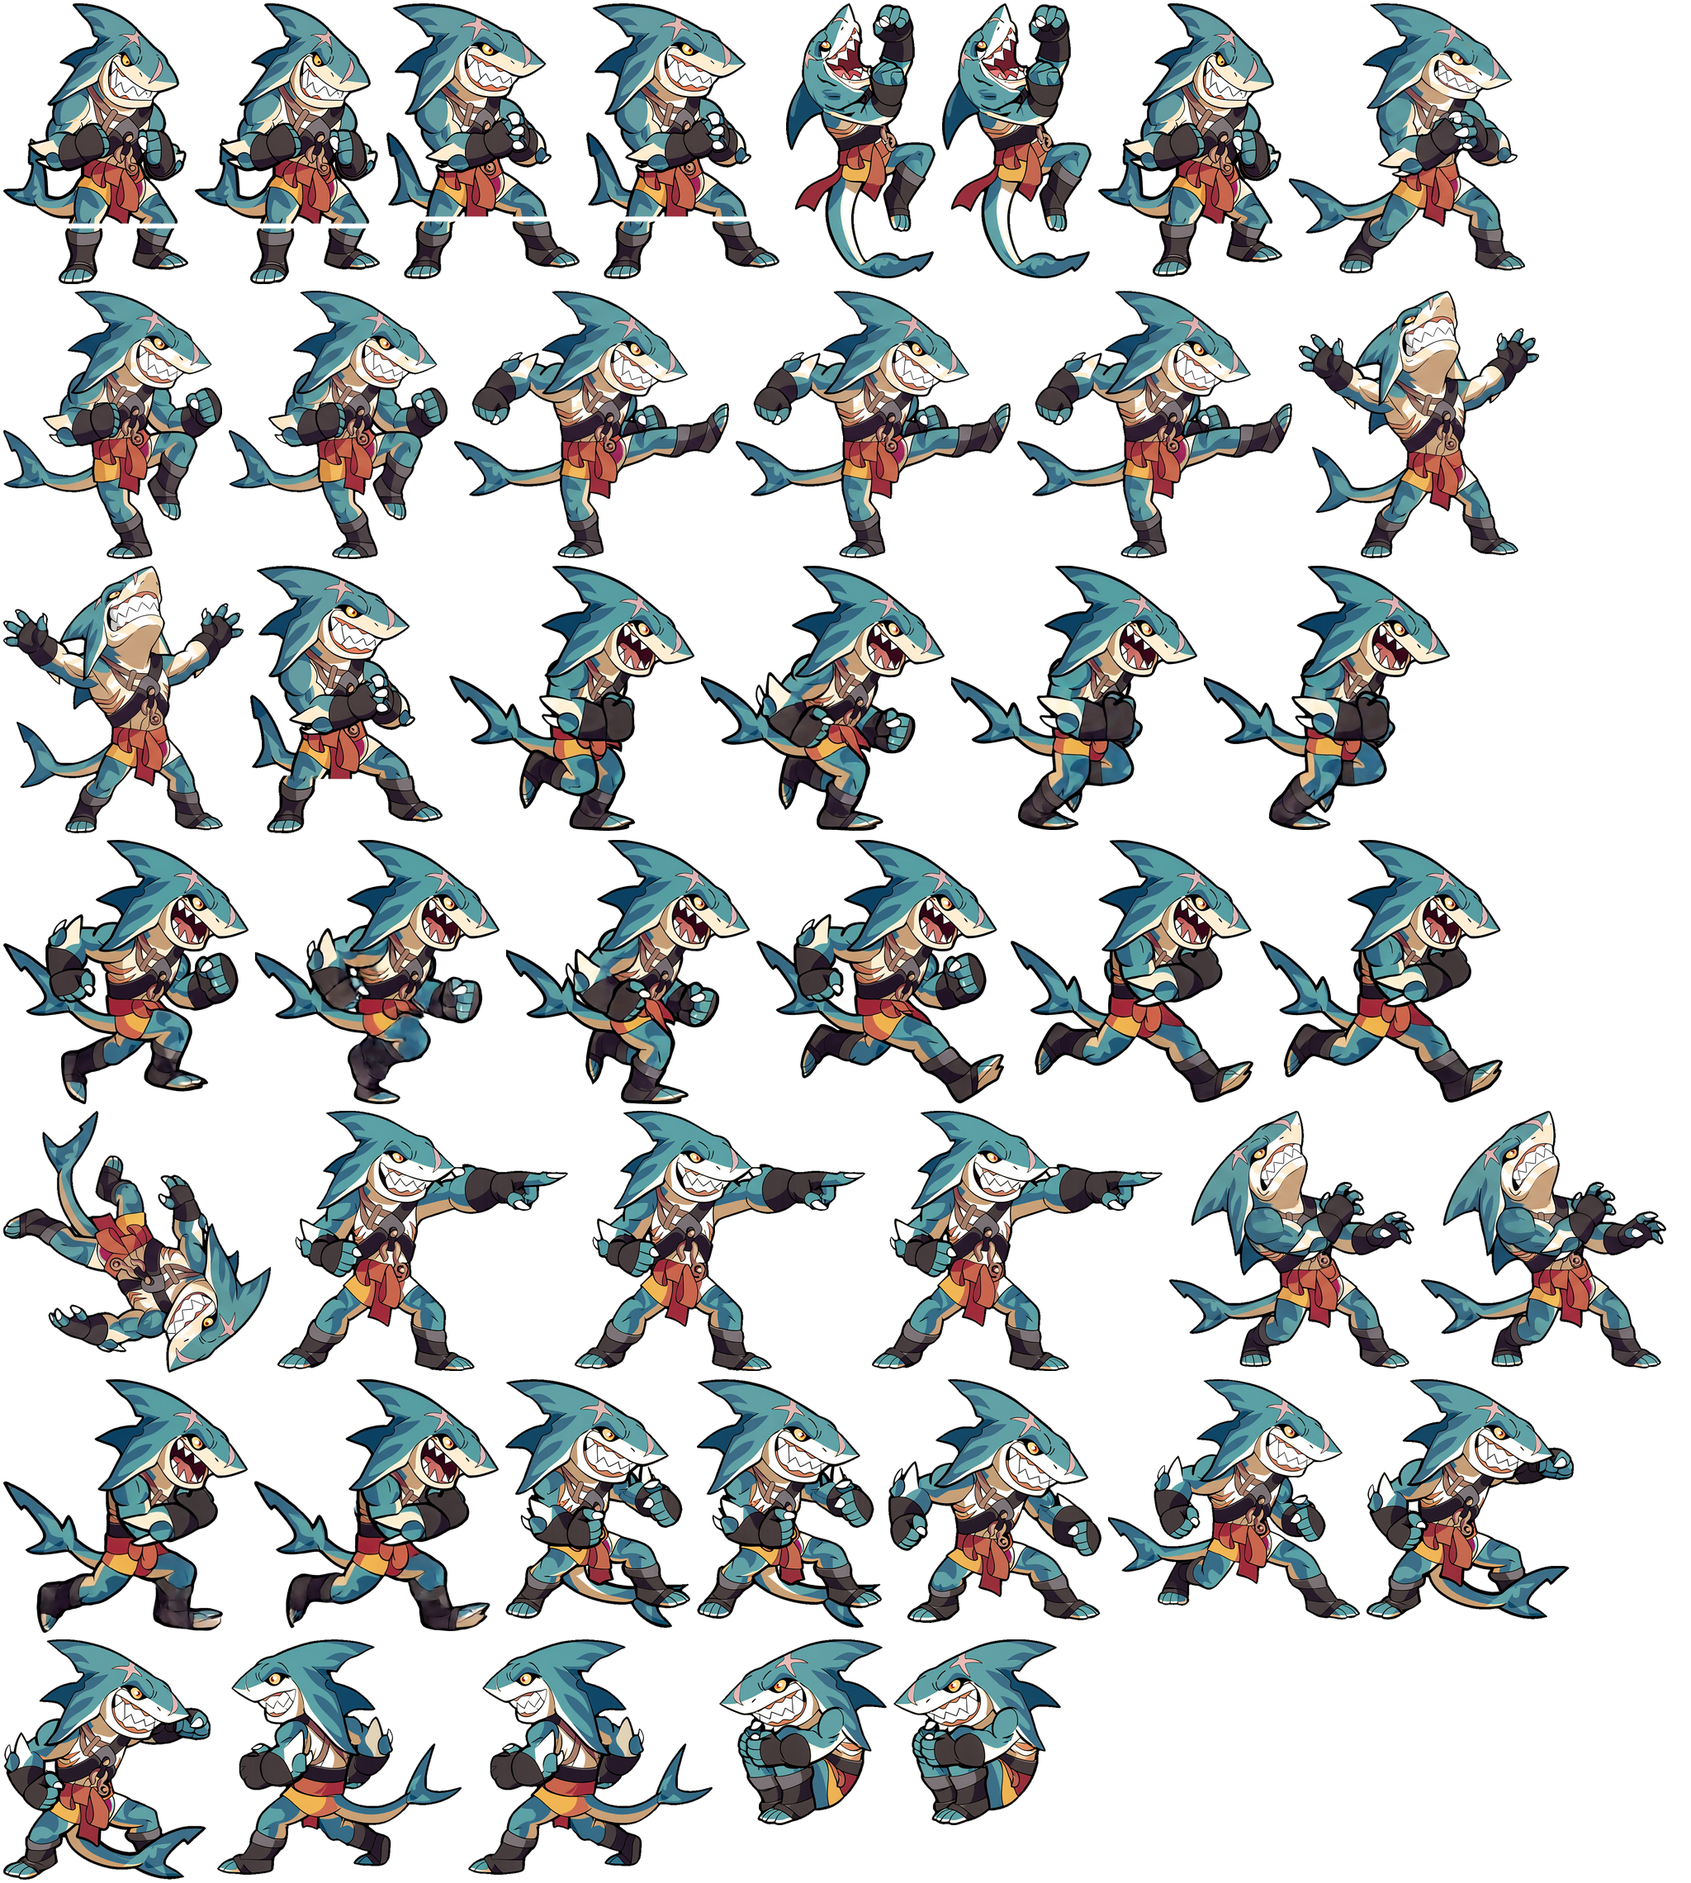
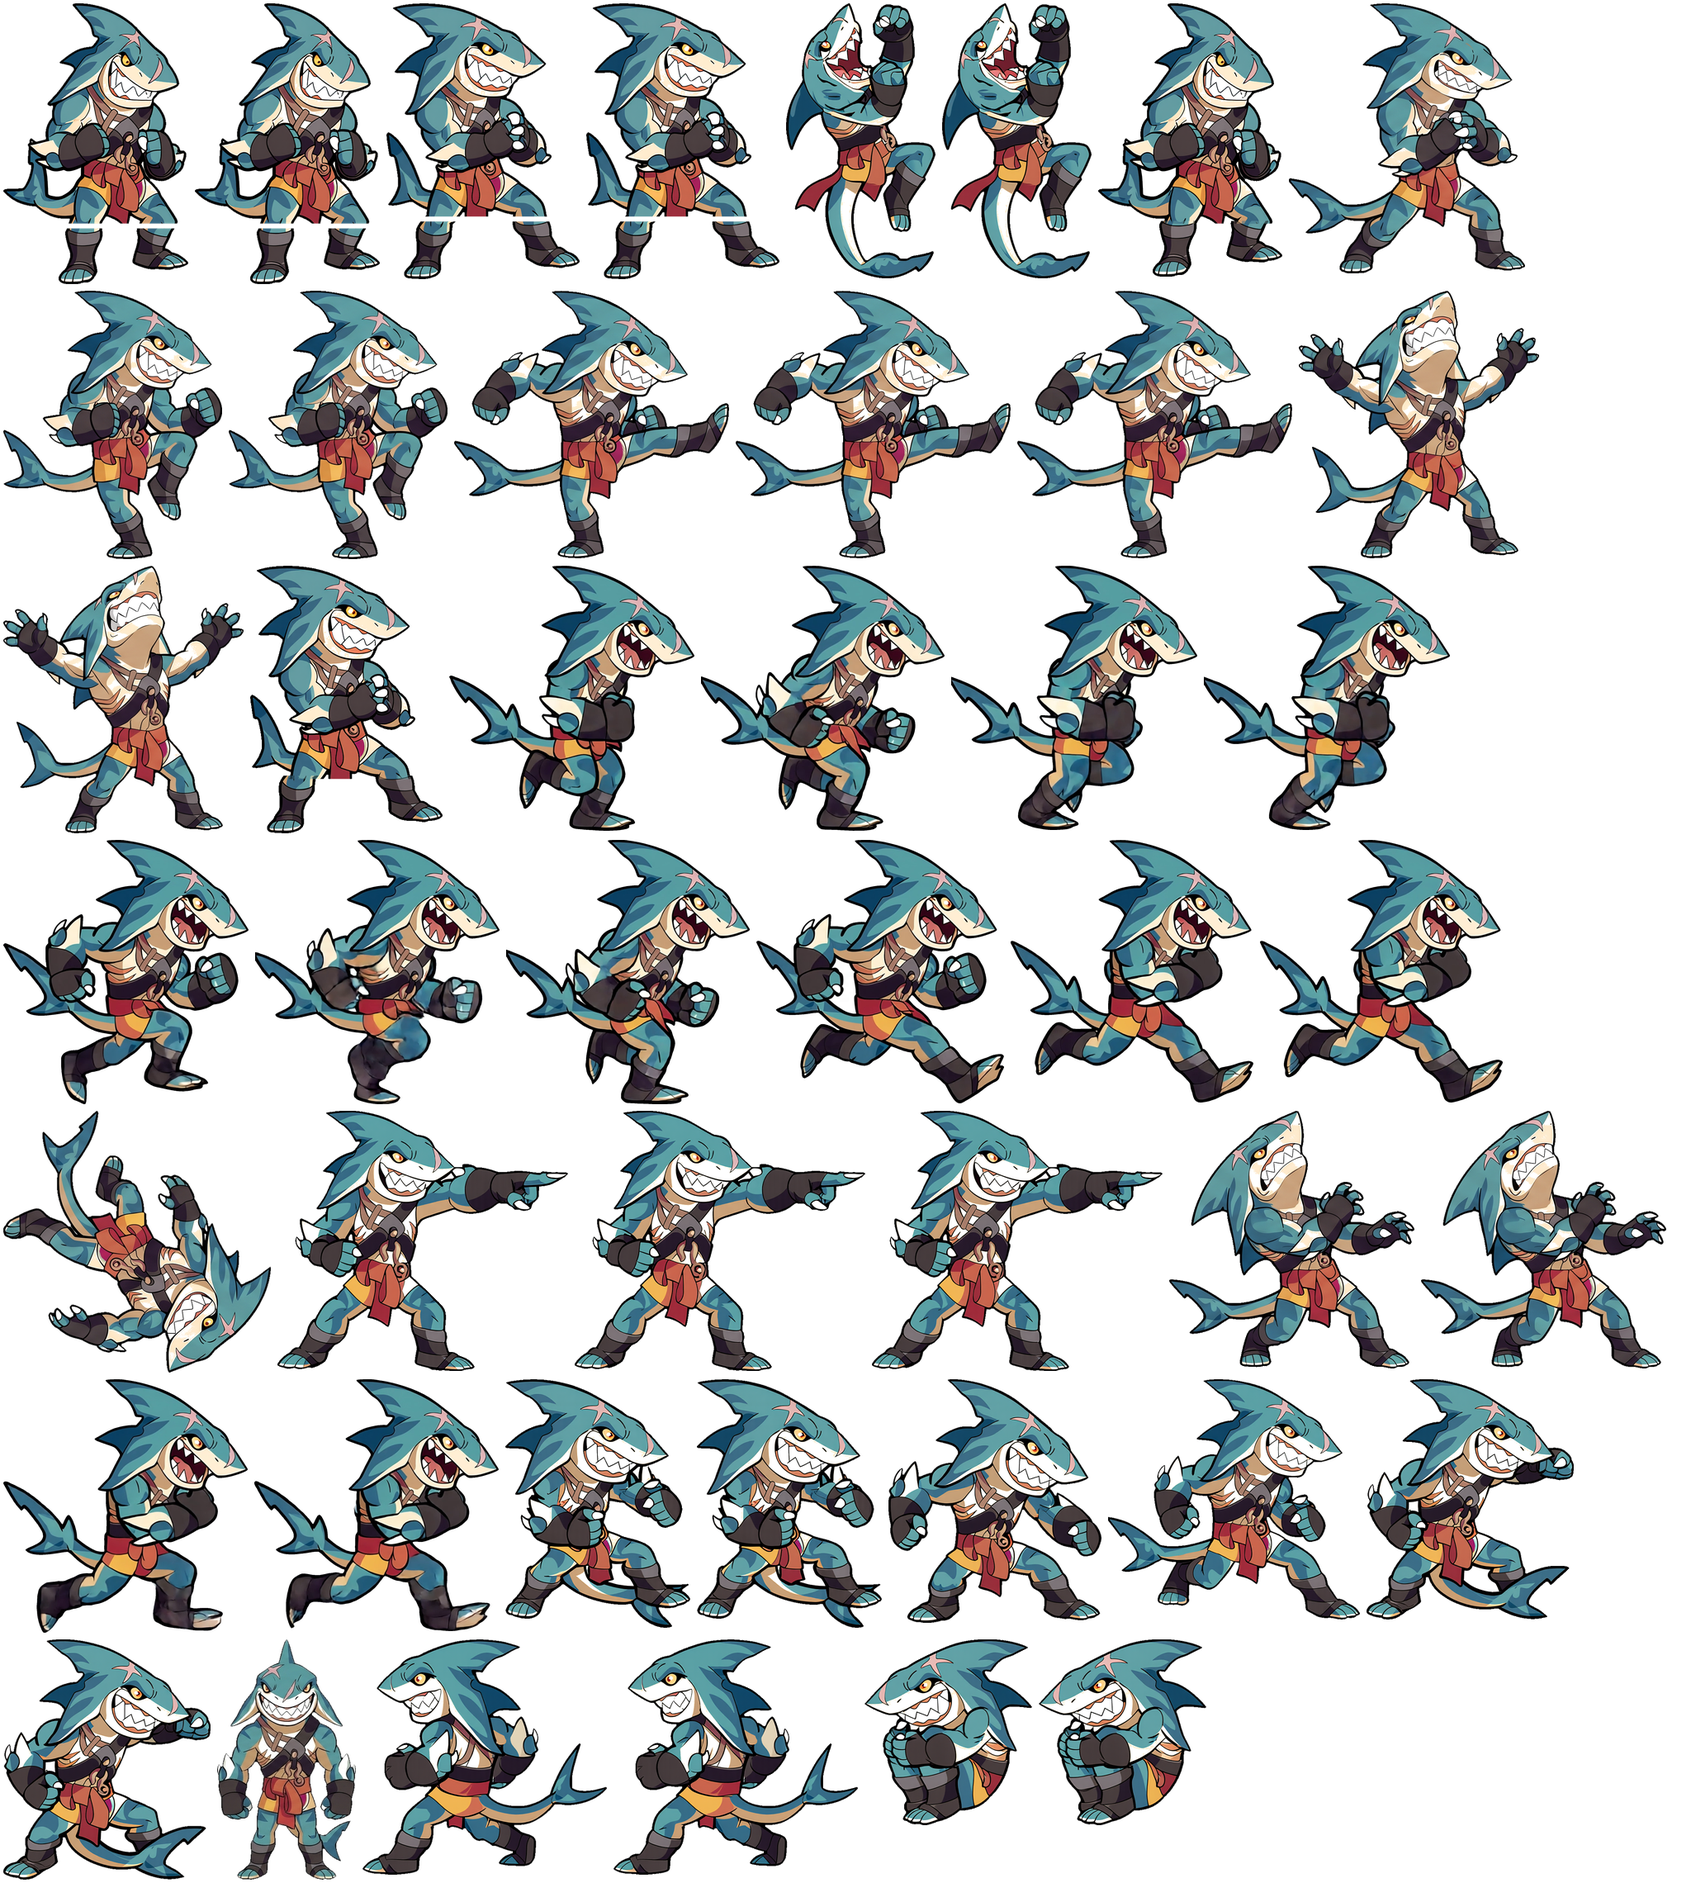
Texturas de verdad para especial, super, estallido y KO — y Mako también gira
**El pedido: "muy buenos, texturas y detalles."** Los cuatro golpes fuertes
—especial, super, el estallido de un poder, el KO— ahora llevan una capa extra
generada con Nano Banana Pro: una hoja de seis efectos (impacto, orbe, tajo,
onda, humo, esquirlas) con la línea gruesa y el recorte plano de comic que
usa el resto del juego, no genérica.

Se integra sin tocar el sistema de partículas que ya existía a propósito: el
cuerpo a cuerpo sigue en geometría pura —seis peleadores dando golpes varias
veces por segundo no pueden pagar decodificar un PNG cada vez— y las texturas
van sólo en los momentos que ya de por sí frenan el tiempo, unos pocos por
minuto. `scripts/separar-vfx.py` parte cada textura en las mismas dos capas
que ya dibuja `fx.ts` —glow blanco con alfa, tintable del color del bando; ink
negro, el contorno, sin tocar— así que un poder de cualquiera de los dos
bandos usa la misma textura y sale del color que le toca.

`src/render/vfxSprites.ts` es el pool: diez ranuras fijas de sprites, sin una
sola asignación por cuadro, mismo criterio que el resto del render. Si una
textura no llegó a cargar —red lenta, lo que sea— el golpe se sigue viendo
con la geometría de siempre; la textura es un agregado, nunca una dependencia.

**Mako.** Su pose de pie es una guardia de tres cuartos y no de frente, así
que necesitaba el mismo tratamiento que Kor y Ragnir: turnaround generado,
cuadro del medio recortado y escalado a la unidad de rig de su hoja, metido
[…]

Changed region(s): [[0.125, 0.8719, 0.7188, 1.0]]

diff --git a/src/render/game.ts b/src/render/game.ts
@@ -52,6 +52,8 @@ import {
 import { createBackdrop } from './backdrop';
 import { createStage, loadFlames, loadPlatforms, loadStage, stageNames, stageTint } from './stage';
 import type { StagePlatforms } from './stage';
+import { loadVfxTexturas } from './loadVfx';
+import { createVfxSprites } from './vfxSprites';
 
 /**
  * La capa que dibuja. Lee el estado de la simulación y lo pinta; no decide nada.
@@ -465,6 +467,7 @@ export async function startGame(
     hojas: sinColgarse(Promise.all(armatures.map((name) => loadSheets(name))), 'las hojas de sprites'),
     fuegos: sinColgarse(
       Promise.all([loadFlames('verde'), loadFlames('rojo')]), 'las hogueras'),
+    vfx: sinColgarse(loadVfxTexturas(), 'las texturas de efectos'),
   };
 
   // Las hogueras entran cuando llegan y nadie las espera: hasta entonces el
@@ -691,6 +694,19 @@ export async function startGame(
   const poderInk = new Graphics();
   world.addChild(poderInk);
 
+  /**
+   * Las ráfagas con textura: especial, super, estallido, KO. Van en su propia
+   * pareja de capas, glow con Bloom e ink sin filtro, igual que todo lo
+   * demás — la textura no cambia esa regla, sólo lo que hay adentro del
+   * contorno.
+   */
+  const vfxGlowLayer = new Container();
+  glowLayer.addChild(vfxGlowLayer);
+  const vfxInkLayer = new Container();
+  world.addChild(vfxInkLayer);
+  const vfxTexturas = await pedidos.vfx ?? {};
+  const vfxSprites = createVfxSprites(vfxGlowLayer, vfxInkLayer, vfxTexturas);
+
   const shockwave = new ShockwaveFilter({
     amplitude: 22,
     wavelength: 140,
@@ -788,6 +804,7 @@ export async function startGame(
     // hitstop, porque congelar los efectos delataría la pausa.
     emitTrails(match, fx);
     updateFx(fx, dtPelea);
+    vfxSprites.update(dtPelea);
 
     // Antes de dibujar: si la simulación cambió de personaje algún slot, hay
     // que enganchar el cuerpo nuevo. Se hace acá y no adentro de `drainEvents`
@@ -930,10 +947,12 @@ export async function startGame(
         orb(fx, x + hacia * 0.3, y, 0.62, 0.3, teamColor);
         slash(fx, x + hacia * 0.35, y, hacia > 0 ? 0 : Math.PI, 1.25, 0.24, teamColor);
         burst(fx, x, y, 8, 6.5, 0.1, 0.42, teamColor);
+        vfxSprites.burst('tajo', x + hacia * 0.35, y, 1.1, 0.3, teamColor, hacia > 0 ? 0 : Math.PI);
       } else {
         orb(fx, x, y, 0.95, 0.34, teamColor);
         beams(fx, x, y, 6, 2.1, 0.28, teamColor);
         shards(fx, x, y, 6, 5.5, teamColor);
+        vfxSprites.burst('orbe', x, y, 1.1, 0.34, teamColor);
       }
       return;
     }
@@ -948,6 +967,9 @@ export async function startGame(
     wave(fx, x, y - FIGHTER_HALF_HEIGHT, magnitude * 1.6, 0.55, GOLD);
     shards(fx, x, y, 12, 9, GOLD);
     burst(fx, x, y, 12, 11, 0.16, 0.7, GOLD);
+    vfxSprites.burst('impacto', x, y, 2.2, 0.5, GOLD);
+    vfxSprites.burst('onda', x, y - FIGHTER_HALF_HEIGHT, 2.6, 0.55, GOLD);
+    vfxSprites.burst('esquirlas', x, y, 1.8, 0.4, GOLD);
     hitstop = Math.max(hitstop, HITSTOP_SUPER);
     camera.cine = CINE_TIEMPO;
     camera.cineX = x;
@@ -1026,6 +1048,8 @@ export async function startGame(
           orb(target, x, y, 1.1, 0.34, teamColor);
           shards(target, x, y, 10, 8, teamColor);
           burst(target, x, y, 12, 9, 0.16, 0.8, teamColor);
+          vfxSprites.burst('impacto', x, y, 2, 0.45, teamColor);
+          vfxSprites.burst('esquirlas', x, y, 1.6, 0.4, teamColor);
           stop = Math.max(stop, HITSTOP_KO);
           camera.zoom = 1;
           break;
@@ -1040,6 +1064,10 @@ export async function startGame(
           beams(target, x, y, 8, 1.4 + fuerza * 1.6, 0.34, teamColor);
           burst(target, x, y, 10, 7 + fuerza * 5, 0.14, 0.62, teamColor);
           wave(target, x, y, 1.6 + fuerza * 1.8, 0.42, teamColor);
+          // El estallido del poder es exactamente el momento que se veía
+          // pelado en las capturas: un círculo liso sin nada adentro. Acá va
+          // la textura del impacto entero, escalada con la fuerza del golpe.
+          vfxSprites.burst('impacto', x, y, 1.3 + fuerza * 1.1, 0.34 + fuerza * 0.14, teamColor);
           stop = Math.max(stop, HITSTOP_SKILL);
           // La cámara se acerca al impacto y no al que disparó: lo que hay que
           // mirar es dónde reventó.

diff --git a/src/render/vfxSprites.ts b/src/render/vfxSprites.ts
@@ -1,0 +1,128 @@
+import { Container, Sprite } from 'pixi.js';
+import type { VfxNombre, VfxTexturas } from './loadVfx';
+
+/**
+ * Ráfagas con textura real, para los golpes que importan: la especial, el
+ * super, el estallido de un poder, el KO.
+ *
+ * **Por qué no reemplaza a `fx.ts`.** El cuerpo a cuerpo dispara chispas
+ * decenas de veces por segundo con seis peleadores en pantalla, y ahí la
+ * geometría a mano —sin decodificar textura, sin overdraw de un PNG grande—
+ * es la elección correcta; es la misma razón por la que el libro entero se
+ * dibuja con `InstancedMesh` y no con seis mil sprites. Las texturas son para
+ * los momentos que ya de por sí frenan el tiempo: unos pocos por minuto, no
+ * por segundo.
+ *
+ * **Por qué un pool fijo de sprites y no `Sprite` nuevos por ráfaga.** Mismo
+ * criterio que el resto del render: cero asignaciones por frame. Cada
+ * ranura tiene su par glow/ink creado una vez: `burst` sólo les cambia la
+ * textura, la posición y el tinte.
+ */
+
+const RAFAGAS = 10;
+
+/**
+ * Cuántas unidades de mundo mide el LADO de la textura para un `size` de 1.
+ * Las seis vienen recortadas a ~420 px de una grilla pareja, así que un solo
+ * factor sirve para las seis sin que ninguna quede desproporcionada respecto
+ * a las otras.
+ */
+const ESCALA: Record<VfxNombre, number> = {
+  impacto: 2.6,
+  orbe: 2.2,
+  tajo: 2.4,
+  onda: 3.2,
+  humo: 2.0,
+  esquirlas: 2.2,
+};
+
+interface Rafaga {
+  glow: Sprite;
+  ink: Sprite;
+  age: number;
+  life: number;
+  size: number;
+  nombre: VfxNombre | null;
+}
+
+export interface VfxSprites {
+  update(dt: number): void;
+  /**
+   * Dispara una ráfaga con textura. Si el nombre no cargó —falló la descarga,
+   * o el juego arrancó antes de que llegara— no hace nada: la geometría a
+   * mano que ya dibujó `fx.ts` en el mismo golpe sigue ahí y el golpe se ve
+   * igual, sólo que sin el agregado.
+   */
+  burst(
+    nombre: VfxNombre, x: number, y: number, size: number, life: number,
+    color: number, angle?: number,
+  ): void;
+}
+
+export function createVfxSprites(
+  glowLayer: Container, inkLayer: Container, texturas: Partial<VfxTexturas>,
+): VfxSprites {
+  const rafagas: Rafaga[] = [];
+  for (let i = 0; i < RAFAGAS; i++) {
+    const glow = new Sprite();
+    const ink = new Sprite();
+    glow.visible = false;
+    ink.visible = false;
+    glow.anchor.set(0.5);
+    ink.anchor.set(0.5);
+    glowLayer.addChild(glow);
+    inkLayer.addChild(ink);
+    rafagas.push({ glow, ink, age: 0, life: 0, size: 1, nombre: null });
+  }
+  let siguiente = 0;
+
+  function burst(
+    nombre: VfxNombre, x: number, y: number, size: number, life: number,
+    color: number, angle = 0,
+  ): void {
+    const par = texturas[nombre];
+    if (par === undefined) return;
+    const r = rafagas[siguiente];
+    siguiente = (siguiente + 1) % RAFAGAS;
+    r.nombre = nombre;
+    r.age = 0;
+    r.life = life;
+    r.size = size;
+    r.glow.texture = par.glow;
+    r.ink.texture = par.ink;
+    r.glow.tint = color;
+    r.glow.visible = true;
+    r.ink.visible = true;
+    r.glow.x = x; r.glow.y = -y;
+    r.ink.x = x; r.ink.y = -y;
+    r.glow.rotation = -angle;
+    r.ink.rotation = -angle;
+  }
+
+  function update(dt: number): void {
+    for (const r of rafagas) {
+      if (r.nombre === null) continue;
+      r.age += dt;
+      if (r.age >= r.life) {
+        r.glow.visible = false;
+        r.ink.visible = false;
+        r.nombre = null;
+        continue;
+      }
+      const t = r.age / r.life;
+      // Misma curva que el resto de `fx.ts`: entra de golpe, se apaga con el
+      // cuadrado del tiempo. Y crece un poco mientras vive, que es lo que
+      // separa un impacto de una calcomanía pegada.
+      const fade = (1 - t) * (1 - t);
+      const brote = t < 0.15 ? t / 0.15 : 1;
+      const escala = (ESCALA[r.nombre] * r.size * brote * (1 + t * 0.25))
+        / r.glow.texture.width;
+      r.glow.scale.set(escala);
+      r.ink.scale.set(escala);
+      r.glow.alpha = 0.5 + fade * 0.5;
+      r.ink.alpha = fade;
+    }
+  }
+
+  return { update, burst };
+}

diff --git a/src/render/loadVfx.ts b/src/render/loadVfx.ts
@@ -1,0 +1,49 @@
+import { Assets, Texture } from 'pixi.js';
+import { assetUrl } from '../art/assetUrl';
+
+/**
+ * Las texturas de efectos, generadas con Nano Banana Pro y separadas en
+ * `scripts/separar-vfx.py`.
+ *
+ * Vienen en pares porque el resto del juego dibuja los efectos así: un
+ * `glow` blanco con alfa —lo que carga el Bloom y lo que se tiñe del color
+ * del bando— y un `ink` negro —el contorno, aparte, para que el Bloom no se
+ * lo coma—. Antes esas dos capas eran geometría a mano; estas seis son la
+ * misma idea con textura real en vez de polígonos.
+ */
+export interface VfxSheet {
+  glow: Texture;
+  ink: Texture;
+}
+
+const NOMBRES = ['impacto', 'orbe', 'tajo', 'onda', 'humo', 'esquirlas'] as const;
+export type VfxNombre = (typeof NOMBRES)[number];
+
+export type VfxTexturas = Record<VfxNombre, VfxSheet>;
+
+/**
+ * Ausencia no es error: igual que el arte cortado y las hojas de sprites, un
+ * efecto sin textura sigue dibujándose con la geometría de siempre —`fx.ts`
+ * no cambia—, así que un 404 acá no puede tirar abajo la pelea.
+ */
+async function cargarPar(nombre: VfxNombre): Promise<VfxSheet | null> {
+  try {
+    const [glow, ink] = await Promise.all([
+      Assets.load<Texture>(assetUrl(`/vfx/${nombre}-glow.png`)),
+      Assets.load<Texture>(assetUrl(`/vfx/${nombre}-ink.png`)),
+    ]);
+    return { glow, ink };
+  } catch {
+    return null;
+  }
+}
+
+export async function loadVfxTexturas(): Promise<Partial<VfxTexturas>> {
+  const pares = await Promise.all(NOMBRES.map(cargarPar));
+  const resultado: Partial<VfxTexturas> = {};
+  NOMBRES.forEach((nombre, i) => {
+    const par = pares[i];
+    if (par !== null) resultado[nombre] = par;
+  });
+  return resultado;
+}

diff --git a/scripts/separar-vfx.py b/scripts/separar-vfx.py
@@ -1,0 +1,75 @@
+#!/usr/bin/env python3
+"""
+Separa una textura de efecto en las dos capas que ya usa el juego.
+
+`src/render/fx.ts` dibuja todo en dos `Graphics`: `glow` —que lleva Bloom y es
+donde va el color del bando— e `ink` —el contorno negro, afuera del Bloom—.
+Las texturas de Nano Banana vienen en UN color fijo (naranja) y con línea
+negra encima; para que le sirvan al juego, que tiñe el mismo efecto de verde o
+de rojo según quién lo tira, hay que separarlas:
+
+- **glow**: el relleno se pasa a blanco puro y conserva su alfa según el brillo
+  original —el centro caliente queda más opaco que el borde—, así que
+  `sprite.tint = color` lo pinta del bando sin perder la caída de luz.
+- **ink**: sólo la línea negra, tal cual, para que se dibuje encima sin teñir.
+
+    python3 scripts/separar-vfx.py arte-crudo/vfx/impacto.png public/vfx/impacto
+"""
+import sys
+import pathlib
+
+import numpy as np
+from PIL import Image
+
+RAIZ = pathlib.Path(__file__).resolve().parent.parent
+sys.path.insert(0, str(RAIZ / 'scripts'))
+import importlib.util
+_spec = importlib.util.spec_from_file_location('alfa', RAIZ / 'scripts' / 'alfa.py')
+_alfa = importlib.util.module_from_spec(_spec)
+_spec.loader.exec_module(_alfa)
+
+# Qué tan oscuro tiene que ser un píxel para contar como línea de tinta y no
+# como relleno de color. El naranja más oscuro del degradé anda por 180 de
+# luminosidad; la línea baja de 70.
+UMBRAL_TINTA = 70
+
+
+def separar(origen: pathlib.Path, destino_base: pathlib.Path) -> None:
+    con_alfa = _alfa.sacar_fondo(Image.open(origen).convert('RGB'))
+    a = np.array(con_alfa)
+    rgb = a[:, :, :3].astype(np.float64)
+    alfa = a[:, :, 3].astype(np.float64)
+    luz = rgb.mean(axis=2)
+
+    es_tinta = (luz < UMBRAL_TINTA) & (alfa > 10)
+
+    # --- ink: sólo la línea, negra, tal cual ---
+    ink = np.zeros_like(a)
+    ink[..., 0:3] = 5
+    ink[..., 3] = np.where(es_tinta, alfa, 0)
+    Image.fromarray(ink.astype(np.uint8), 'RGBA').save(f'{destino_base}-ink.png')
+
+    # --- glow: el relleno, a blanco, con la caída de luz como alfa ---
+    # `luz/255` es la caída natural del degradé del generador: el centro
+    # blanco puro pesa 1, el naranja oscuro del borde pesa menos. Elevarlo a
+    # 0.7 la hace caer más lento — si no, el borde exterior del efecto casi no
+    # se ve y la textura se lee más chica de lo que ocupa en píxeles.
+    peso = np.clip(luz / 255, 0, 1) ** 0.7
+    glow = np.zeros_like(a)
+    glow[..., 0:3] = 255
+    glow[..., 3] = np.where(es_tinta, 0, alfa * peso)
+    Image.fromarray(glow.astype(np.uint8), 'RGBA').save(f'{destino_base}-glow.png')
+
+    print(f'{origen.name}: ink {ink[...,3].astype(bool).mean()*100:.0f}% · '
+          f'glow {glow[...,3].astype(bool).mean()*100:.0f}%')
+
+
+def main() -> int:
+    if len(sys.argv) != 3:
+        raise SystemExit(__doc__)
+    separar(pathlib.Path(sys.argv[1]), pathlib.Path(sys.argv[2]))
+    return 0
+
+
+if __name__ == '__main__':
+    raise SystemExit(main())
